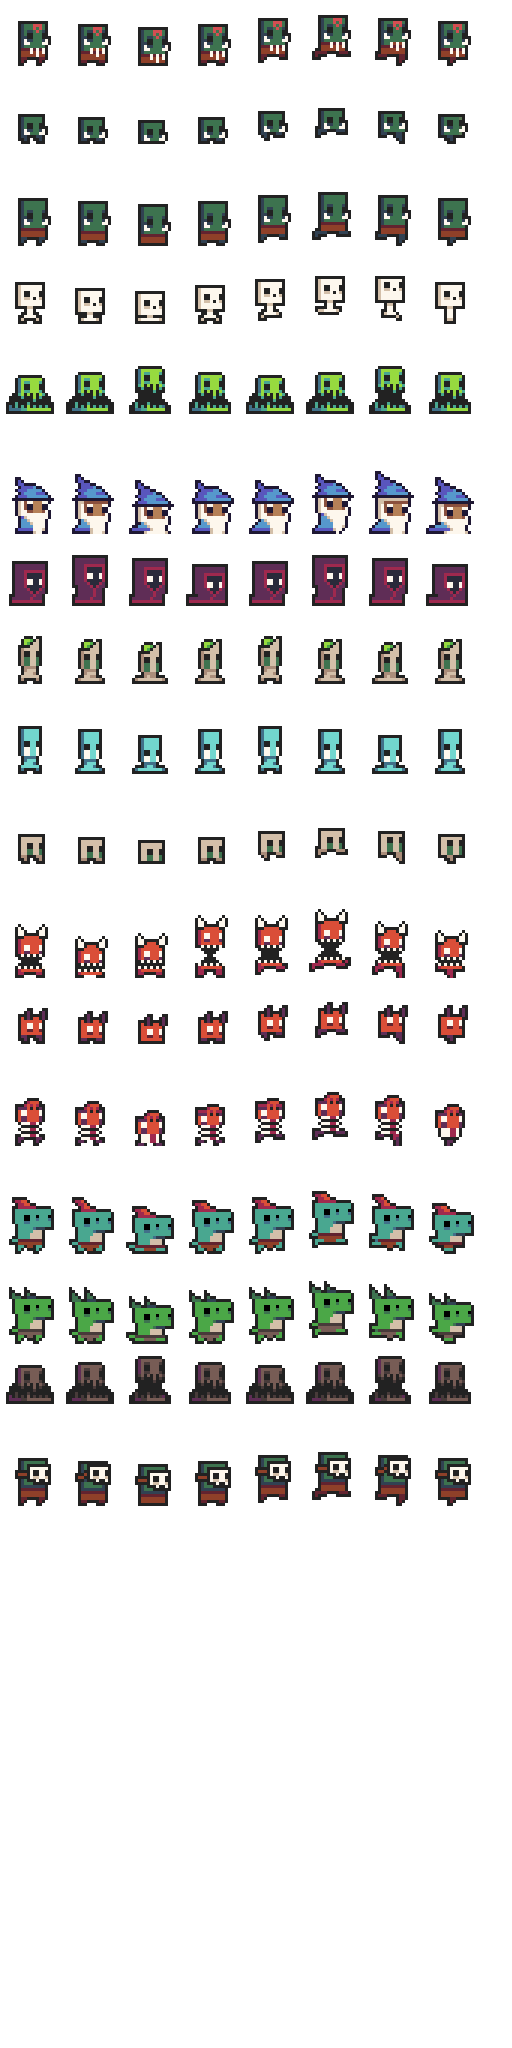
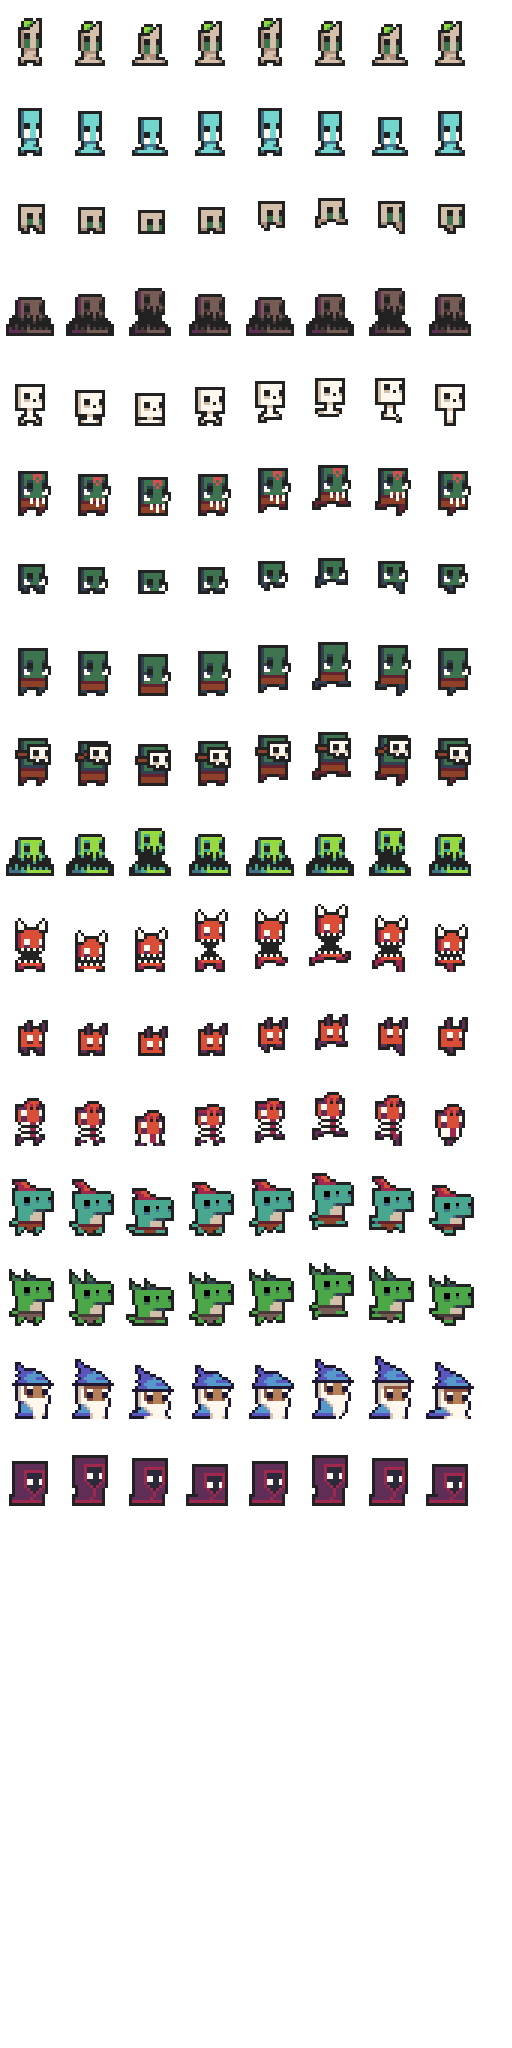
Reposition enemy Sprite, Fix win BUG
- Reposition enemy Sprite
- Fix last wave all enemy die but health become 0 will win BUG

diff --git a/CGP_Assignment/Code/Component/EnemyController.cpp b/CGP_Assignment/Code/Component/EnemyController.cpp
@@ -159,7 +159,7 @@ void EnemyController::fixUpdate()
 	}
 }
 
-void EnemyController::update(int &coin, bool &isEnd, bool &isWin)
+void EnemyController::update(int &coin, bool &isEnd, bool &isWin, int health)
 {
 	if (dieEnemyNum == totalSpawn[currentWave] && currentWave != waveNum - 1)
 	{
@@ -167,7 +167,7 @@ void EnemyController::update(int &coin, bool &isEnd, bool &isWin)
 		dieEnemyNum = 0;
 	}
 
-	else if (dieEnemyNum == totalSpawn[currentWave])
+	else if (health > 0 && dieEnemyNum == totalSpawn[currentWave])
 	{
 		isEnd = true;
 		isWin = true;

diff --git a/CGP_Assignment/Code/Level/Level.cpp b/CGP_Assignment/Code/Level/Level.cpp
@@ -155,7 +155,7 @@ void Level::update()
 		if (!GameStateManager::getInstance()->isPause)
 		{
 			TowerBuilding::getInstance()->update(coin);
-			EnemyController::getInstance()->update(coin,isEnd ,isWin);
+			EnemyController::getInstance()->update(coin,isEnd ,isWin, health);
 			Physics::getInstance()->update();
 		}
 

diff --git a/CGP_Assignment/Code/Component/EnemyController.h b/CGP_Assignment/Code/Component/EnemyController.h
@@ -22,7 +22,7 @@ public:
 
 	void init();
 	void fixUpdate();
-	void update(int &coin, bool &isEnd, bool &isWin);
+	void update(int &coin, bool &isEnd, bool &isWin, int health);
 	void draw();
 	void release();
 
